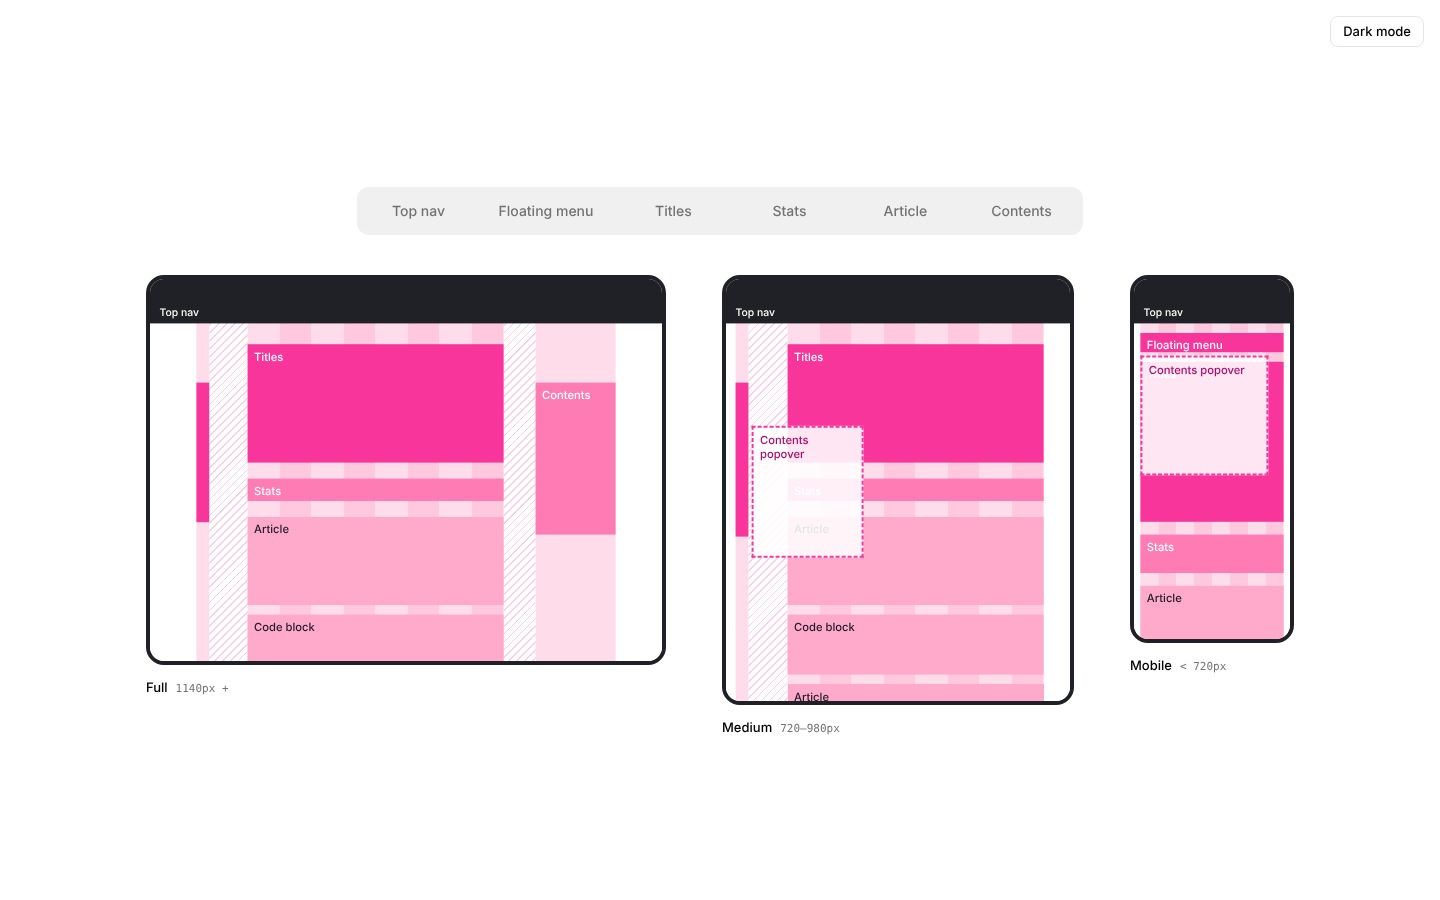
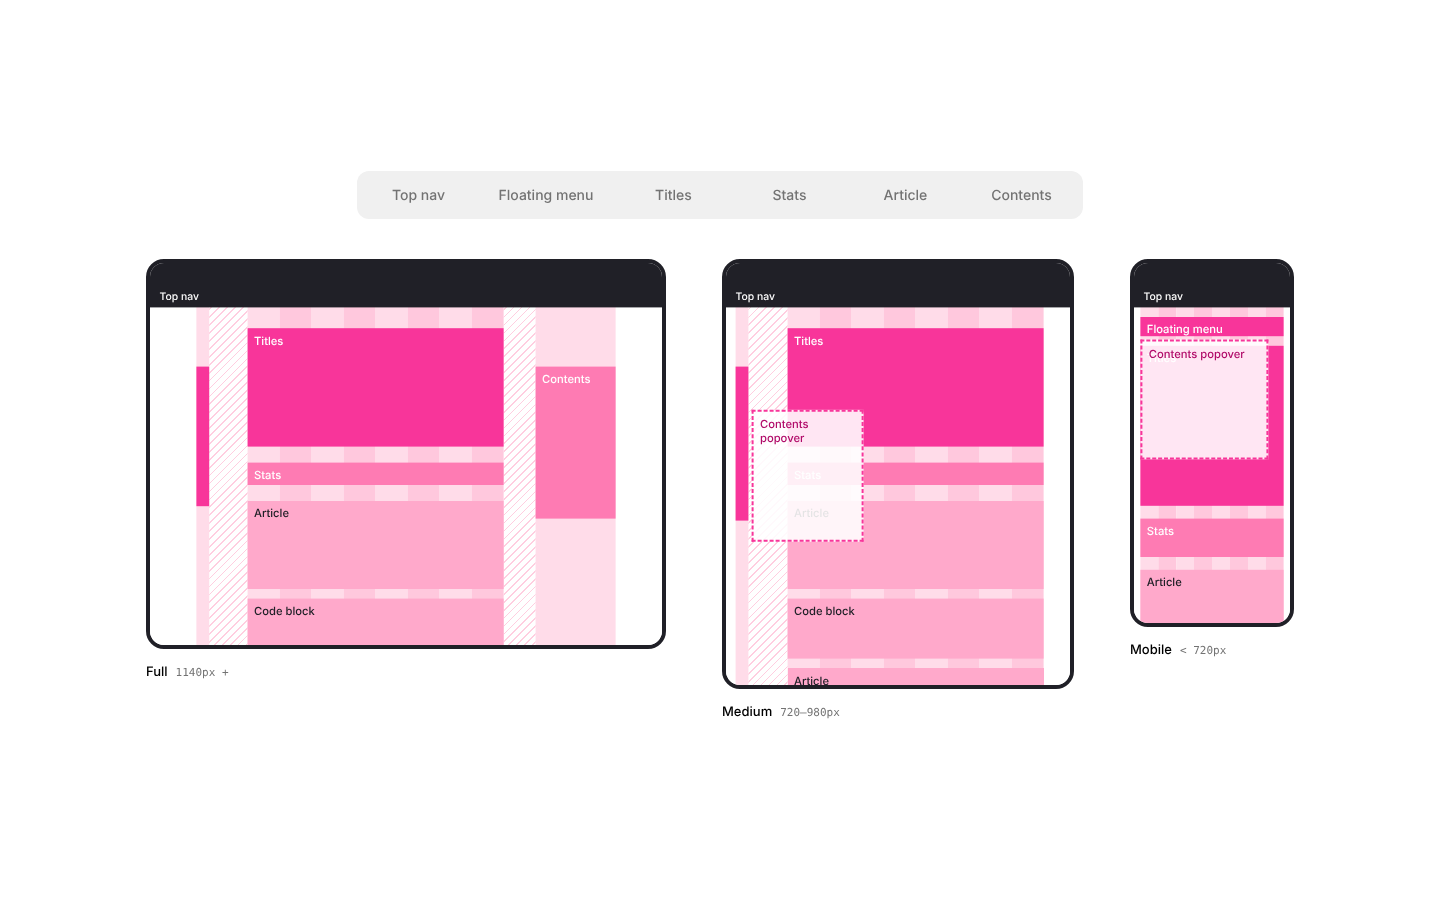
Make it light-only: remove the theme toggle and dark styles
Claude-Session: https://claude.ai/code/session_01XsNnNDTsha9dbWBQaohYJh

diff --git a/demo/demo.css b/demo/demo.css
@@ -1,24 +1,14 @@
 * { box-sizing: border-box; }
-html, body { margin: 0; }
+html, body { margin: 0; background: #fff; }
 .demo {
-  --bg: #fff; --fg: #000; --border: oklch(0.922 0 0);
   min-height: 100vh;
   display: flex;
   align-items: center;
   justify-content: center;
-  padding: 64px 32px 32px;
-  background: var(--bg);
-  color: var(--fg);
+  padding: 48px 32px;
+  background: #fff;
+  color: #000;
   font-family: "Geist", ui-sans-serif, system-ui, sans-serif;
-  transition: background-color .2s;
 }
-.demo.dark { --bg: oklch(0.145 0 0); --fg: oklch(0.985 0 0); --border: oklch(1 0 0 / 10%); }
 .demo .rlm { max-width: 1760px; }
-@media (max-width: 720px) { .demo { padding: 64px 16px 24px; } }
-.theme {
-  position: fixed; top: 16px; right: 16px; z-index: 1;
-  font-family: inherit; font-size: 13px; font-weight: 500; line-height: 1;
-  padding: 8px 12px; border-radius: 8px;
-  border: 1px solid var(--border); background: var(--bg); color: var(--fg);
-  cursor: pointer;
-}
+@media (max-width: 720px) { .demo { padding: 32px 16px 24px; } }

diff --git a/demo/main.jsx b/demo/main.jsx
@@ -3,19 +3,8 @@ import { createRoot } from "react-dom/client";
 import { ResponsiveLayoutMap } from "../src/index.js";
 import "./demo.css";
 
-function Demo() {
-  const [dark, setDark] = React.useState(
-    () => window.matchMedia?.("(prefers-color-scheme: dark)").matches ?? false
-  );
-
-  return (
-    <main className={"demo" + (dark ? " dark" : "")}>
-      <button className="theme" onClick={() => setDark(!dark)}>
-        {dark ? "Light" : "Dark"} mode
-      </button>
-      <ResponsiveLayoutMap />
-    </main>
-  );
-}
-
-createRoot(document.getElementById("root")).render(<Demo />);
+createRoot(document.getElementById("root")).render(
+  <main className="demo">
+    <ResponsiveLayoutMap />
+  </main>
+);

diff --git a/src/ResponsiveLayoutMap.css b/src/ResponsiveLayoutMap.css
@@ -29,16 +29,6 @@
   color: var(--rlm-foreground);
 }
 
-.dark .rlm,
-.rlm.dark {
-  --rlm-foreground: oklch(0.985 0 0);
-  --rlm-muted-foreground: oklch(0.708 0 0);
-  --rlm-seg-bg: oklch(0.205 0 0);
-  --rlm-seg-on: oklch(0.371 0 0);
-  --rlm-ring: oklch(0.556 0 0);
-  --rlm-shell: oklch(0.371 0 0);
-}
-
 /* Segmented control */
 .rlm-seg {
   display: flex;

diff --git a/README.md b/README.md
@@ -6,10 +6,7 @@ It ships with the layout of a docs-style home page, and you can feed it your own
 
 **[Live demo →](https://tanaka-1997.github.io/responsive-layout-map/)**
 
-<p>
-  <img src="docs/preview-light.png" alt="Layout map, light theme" width="420" />
-  <img src="docs/preview-dark.png" alt="Layout map, dark theme" width="420" />
-</p>
+<img src="docs/preview-light.png" alt="Layout map with the three breakpoint frames" width="840" />
 
 ## What it shows
 
@@ -102,8 +99,6 @@ All colours are CSS custom properties scoped to `.rlm`, so you can override them
   --rlm-ink: #1b1b22;             /* frame and nav colour */
 }
 ```
-
-Dark mode switches on when `.dark` is on the component or any ancestor. The frames stay light because they picture a light page.
 
 ## Accessibility
 
